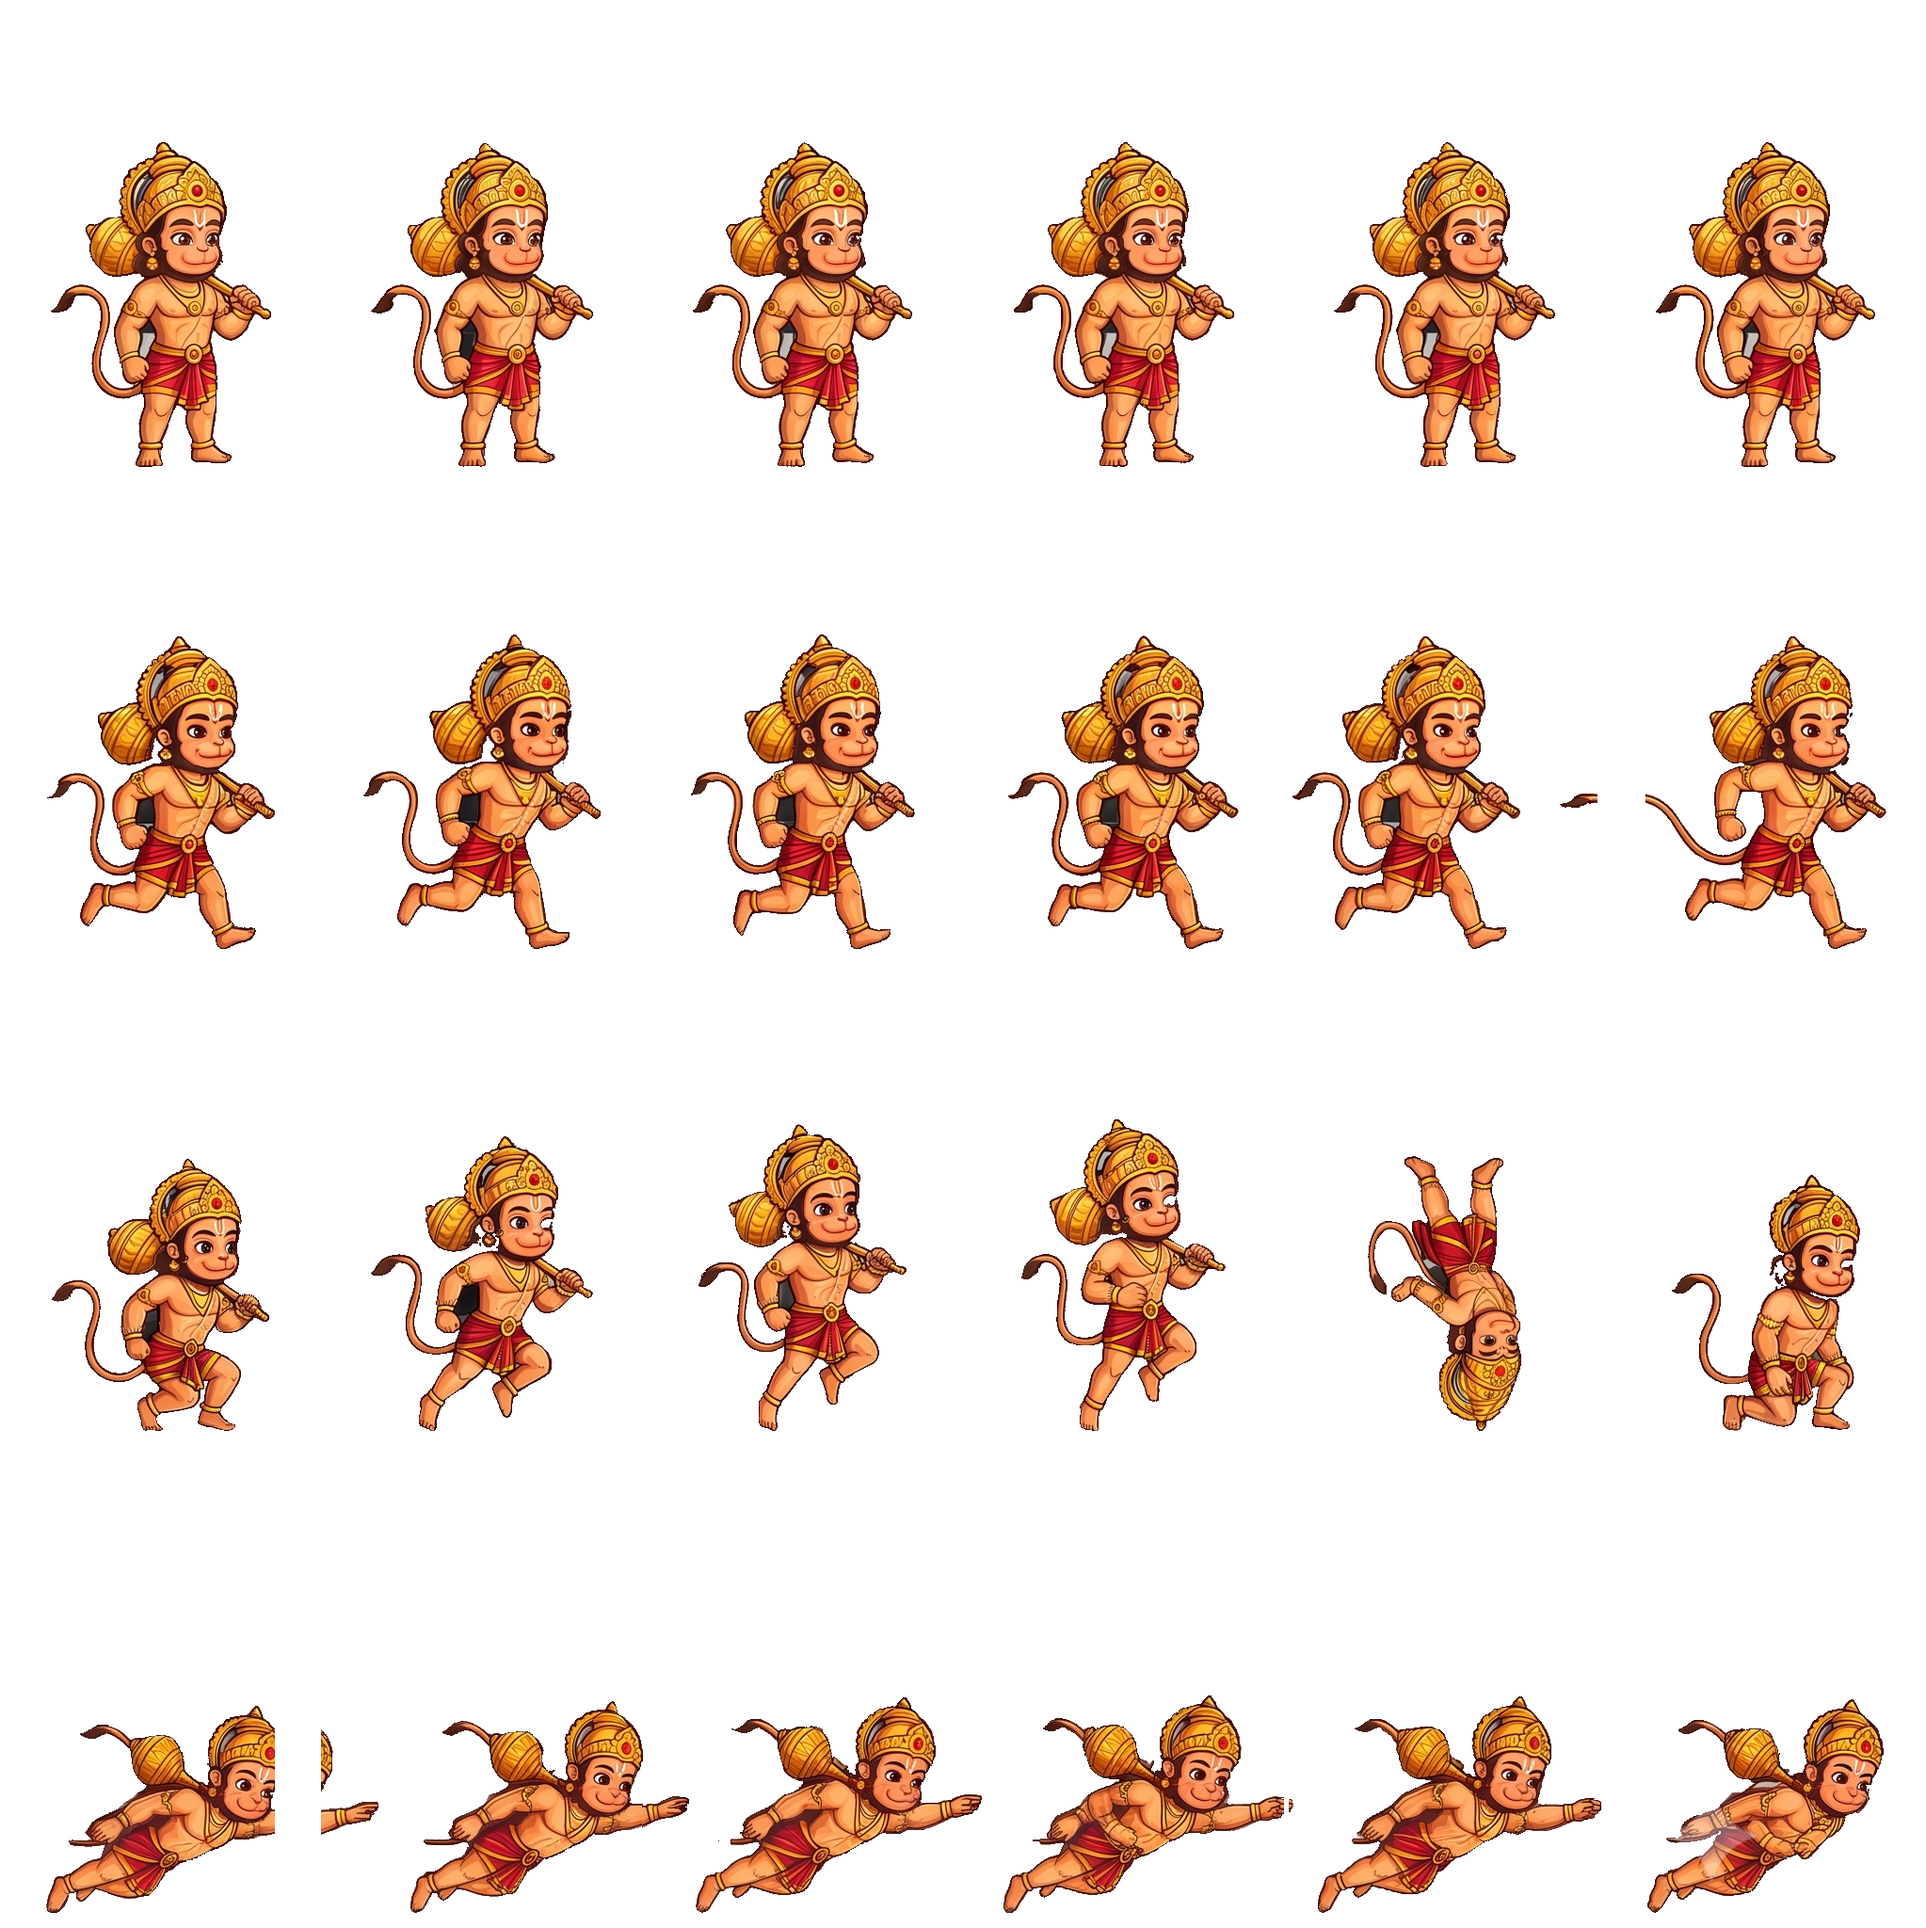
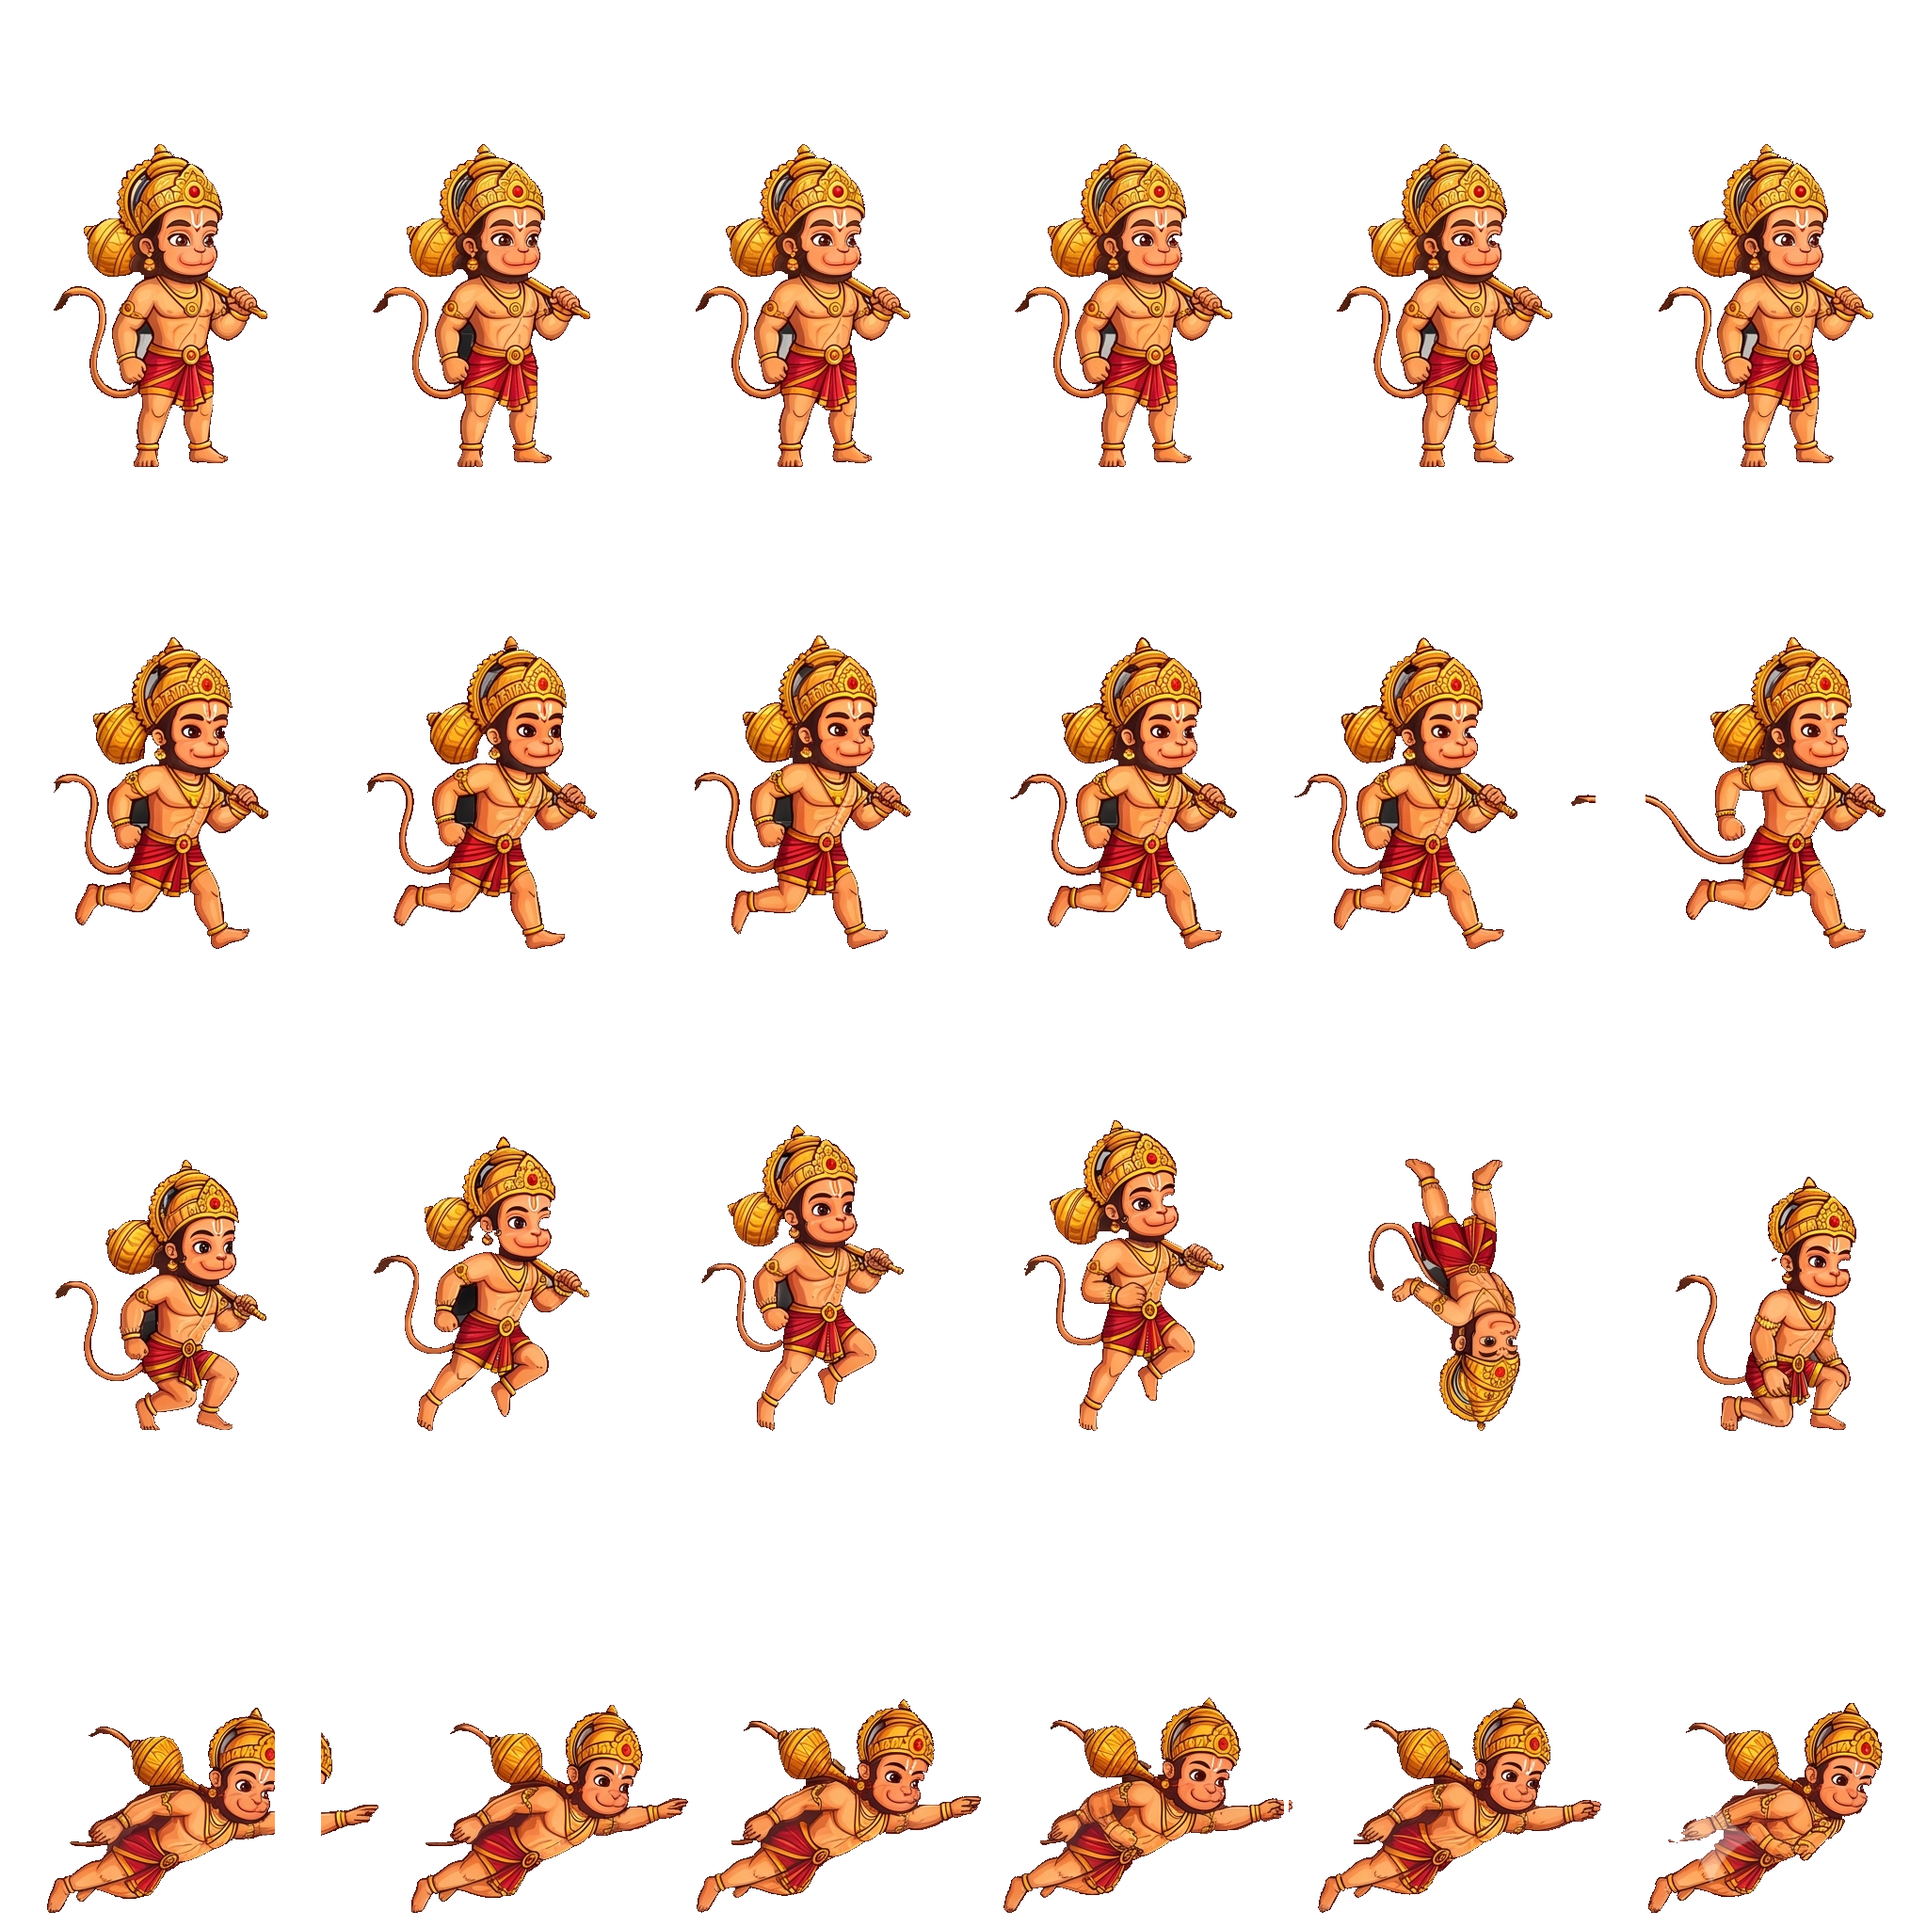
Polish: cleaner sprite/prop edges + fall-respawn with heart cost
- Rebake hero sheet with a 3-pass defringe (looser edge test) so the flying
  and other frames have no leftover checker halo
- cleanTexture: multi-pass defringe + soften edge alpha so props (fruit, etc.)
  have crisp anti-aliased rims instead of a jagged cut
- Falling into a pit now respawns at the level start and costs one heart
  (shared utils/respawn.js); game over only when hearts hit zero. Wired into
  GameScene, TreeScene, DangerScene, TiredScene.

diff --git a/src/utils/cleanTexture.js b/src/utils/cleanTexture.js
@@ -102,13 +102,38 @@ export function stripBackground(scene, key, tolerance = 78) {
     const max = Math.max(r, g, b), min = Math.min(r, g, b);
     return max - min <= 34 && max >= 30;
   };
-  const toClear = [];
+  // Several passes so each cleared ring exposes the next halo pixel underneath,
+  // leaving crisp edges instead of a jagged fringe.
+  for (let pass = 0; pass < 3; pass++) {
+    const toClear = [];
+    for (let y = 0; y < h; y++) {
+      for (let x = 0; x < w; x++) {
+        const p = y * w + x;
+        const i = p * 4;
+        if (d[i + 3] === 0) continue;
+        // Does it touch transparency?
+        let edge = false;
+        for (let dy = -1; dy <= 1 && !edge; dy++) {
+          for (let dx = -1; dx <= 1; dx++) {
+            const nx = x + dx, ny = y + dy;
+            if (nx < 0 || ny < 0 || nx >= w || ny >= h) continue;
+            if (d[(ny * w + nx) * 4 + 3] === 0) { edge = true; break; }
+          }
+        }
+        if (edge && isBgLoose(i)) toClear.push(i);
+      }
+    }
+    if (!toClear.length) break;
+    for (const i of toClear) d[i + 3] = 0;
+  }
+
+  // Soften remaining hard edges: halve alpha on opaque pixels that still touch
+  // transparency, for a 1px anti-aliased rim instead of a stair-stepped cut.
+  const soften = [];
   for (let y = 0; y < h; y++) {
     for (let x = 0; x < w; x++) {
-      const p = y * w + x;
-      const i = p * 4;
+      const i = (y * w + x) * 4;
       if (d[i + 3] === 0) continue;
-      // Does it touch transparency?
       let edge = false;
       for (let dy = -1; dy <= 1 && !edge; dy++) {
         for (let dx = -1; dx <= 1; dx++) {
@@ -117,10 +142,10 @@ export function stripBackground(scene, key, tolerance = 78) {
           if (d[(ny * w + nx) * 4 + 3] === 0) { edge = true; break; }
         }
       }
-      if (edge && isBgLoose(i)) toClear.push(i);
+      if (edge) soften.push(i);
     }
   }
-  for (const i of toClear) d[i + 3] = 0;
+  for (const i of soften) d[i + 3] = Math.min(d[i + 3], 170);
 
   ctx.putImageData(imgData, 0, 0);
   scene.textures.remove(key);

diff --git a/src/scenes/DangerScene.js b/src/scenes/DangerScene.js
@@ -4,6 +4,7 @@ import { playMusic, GAME_MUSIC } from '../audio/music.js';
 import Player from '../objects/Player.js';
 import Hud from '../ui/Hud.js';
 import { stripBackground } from '../utils/cleanTexture.js';
+import { fallRespawn } from '../utils/respawn.js';
 
 // SCENE 9 — FIRST DANGER (Chapter 1, part 3)
 // The forest turns hostile. Three hazard types are introduced one at a time so
@@ -45,6 +46,7 @@ export default class DangerScene extends Phaser.Scene {
     this.buildFinish(3440);
 
     this.player = new Player(this, 120, GROUND_Y - 220);
+    this.spawnX = 120; this.spawnY = GROUND_Y - 220;
     this.physics.add.collider(this.player, this.solids);
     this.physics.add.collider(this.boulders, this.solids);
     this.physics.add.overlap(this.player, this.hazards, this.onHazard, (pl, hz) => hz.active !== false, this);
@@ -277,7 +279,7 @@ export default class DangerScene extends Phaser.Scene {
       if (b && b.x < this.cameras.main.scrollX - 120) b.destroy();
     });
 
-    if (this.player.y > GAME_HEIGHT + 100) this.loseLevel('Hanuman fell...');
+    if (this.player.y > GAME_HEIGHT + 100) fallRespawn(this);
     if (this.finishZone && Phaser.Geom.Rectangle.Overlaps(this.player.getBounds(), this.finishZone)) this.winLevel();
   }
 

diff --git a/src/scenes/GameScene.js b/src/scenes/GameScene.js
@@ -4,6 +4,7 @@ import { playMusic, GAME_MUSIC } from '../audio/music.js';
 import Player from '../objects/Player.js';
 import Hud from '../ui/Hud.js';
 import { stripBackground } from '../utils/cleanTexture.js';
+import { fallRespawn } from '../utils/respawn.js';
 
 // SCENE 7 — ASHOKA VATIKA (Chapter 1 tutorial)
 // A gentle side-scrolling platformer that teaches Move → Jump → Collect one
@@ -53,6 +54,7 @@ export default class GameScene extends Phaser.Scene {
 
     // Player
     this.player = new Player(this, 150, GROUND_Y - 220);
+    this.spawnX = 150; this.spawnY = GROUND_Y - 220;
     this.physics.add.collider(this.player, this.solids);
     this.physics.add.overlap(this.player, this.pickups, this.onCollect, null, this);
     this.physics.add.overlap(this.player, this.hazards, this.onHazard, null, this);
@@ -390,7 +392,7 @@ export default class GameScene extends Phaser.Scene {
     this.flyMeter.setAlpha(Phaser.Math.Linear(this.flyMeter.alpha, showMeter ? 1 : 0, 0.15));
 
     // Fell into the gap / off the world.
-    if (this.player.y > GAME_HEIGHT + 100) this.loseLevel('Hanuman fell...');
+    if (this.player.y > GAME_HEIGHT + 100) fallRespawn(this);
 
     // Reached the finish gate.
     if (this.finishZone && !this.finished) {

diff --git a/src/scenes/TiredScene.js b/src/scenes/TiredScene.js
@@ -4,6 +4,7 @@ import { playMusic, GAME_MUSIC } from '../audio/music.js';
 import Player from '../objects/Player.js';
 import Hud from '../ui/Hud.js';
 import { stripBackground } from '../utils/cleanTexture.js';
+import { fallRespawn } from '../utils/respawn.js';
 
 // SCENE 10 — HANUMAN GETS TIRED (Chapter 1 finale)
 // The long journey wears him down: ENERGY drains steadily, and as it falls his
@@ -42,6 +43,7 @@ export default class TiredScene extends Phaser.Scene {
     this.buildFinish(3240);
 
     this.player = new Player(this, 120, GROUND_Y - 220);
+    this.spawnX = 120; this.spawnY = GROUND_Y - 220;
     this.physics.add.collider(this.player, this.solids);
     this.physics.add.overlap(this.player, this.pickups, this.onCollect, null, this);
     this.cameras.main.startFollow(this.player, true, 0.12, 0.12);
@@ -219,7 +221,7 @@ export default class TiredScene extends Phaser.Scene {
       this.banner('Hanuman is tired.\nFind food to restore energy!');
     }
 
-    if (this.player.y > GAME_HEIGHT + 100) this.loseLevel('Hanuman fell...');
+    if (this.player.y > GAME_HEIGHT + 100) fallRespawn(this);
     if (this.finishZone && Phaser.Geom.Rectangle.Overlaps(this.player.getBounds(), this.finishZone)) this.winLevel();
   }
 

diff --git a/src/scenes/TreeScene.js b/src/scenes/TreeScene.js
@@ -4,6 +4,7 @@ import { playMusic, GAME_MUSIC } from '../audio/music.js';
 import Player from '../objects/Player.js';
 import Hud from '../ui/Hud.js';
 import { stripBackground } from '../utils/cleanTexture.js';
+import { fallRespawn } from '../utils/respawn.js';
 
 // SCENE 8 — TREE JUMPING (Chapter 1, part 2)
 // Hanuman climbs through the forest canopy on branch platforms — some of them
@@ -47,6 +48,7 @@ export default class TreeScene extends Phaser.Scene {
 
     // Player — double jump unlocked for this chapter.
     this.player = new Player(this, 120, GROUND_Y - 220);
+    this.spawnX = 120; this.spawnY = GROUND_Y - 220;
     this.player.enableDoubleJump();
     this.physics.add.collider(this.player, this.solids);
     this.physics.add.overlap(this.player, this.pickups, this.onCollect, null, this);
@@ -290,7 +292,7 @@ export default class TreeScene extends Phaser.Scene {
       this.popup('Tap again in the air\nto DOUBLE JUMP!');
     }
 
-    if (this.player.y > GAME_HEIGHT + 100) this.loseLevel('Hanuman fell...');
+    if (this.player.y > GAME_HEIGHT + 100) fallRespawn(this);
 
     if (this.finishZone && Phaser.Geom.Rectangle.Overlaps(this.player.getBounds(), this.finishZone)) {
       this.winLevel();

diff --git a/src/utils/respawn.js b/src/utils/respawn.js
@@ -1,0 +1,20 @@
+// Falling into a pit shouldn't be an instant game over — it costs one heart and
+// sends Hanuman back to the start of the level. Only when hearts run out is it a
+// real loss. Scenes must set `spawnX`/`spawnY` and expose `health`, `hud`,
+// `player`, and `loseLevel`.
+export function fallRespawn(scene) {
+  if (scene.finished) return;
+  scene.health -= 1;
+  scene.hud.setHealth(scene.health);
+  if (scene.health <= 0) {
+    scene.loseLevel('Hanuman fell...');
+    return;
+  }
+  const p = scene.player;
+  p.setVelocity(0, 0);
+  p.setPosition(scene.spawnX, scene.spawnY);
+  p.setAlpha(1);
+  scene.tweens.add({ targets: p, alpha: 0.35, duration: 100, yoyo: true, repeat: 4 });
+  scene.cameras.main.flash(160, 0, 0, 0);
+  if (scene.floatText) scene.floatText(scene.spawnX, scene.spawnY - 120, '-1 ❤', '#ff6b6b');
+}
